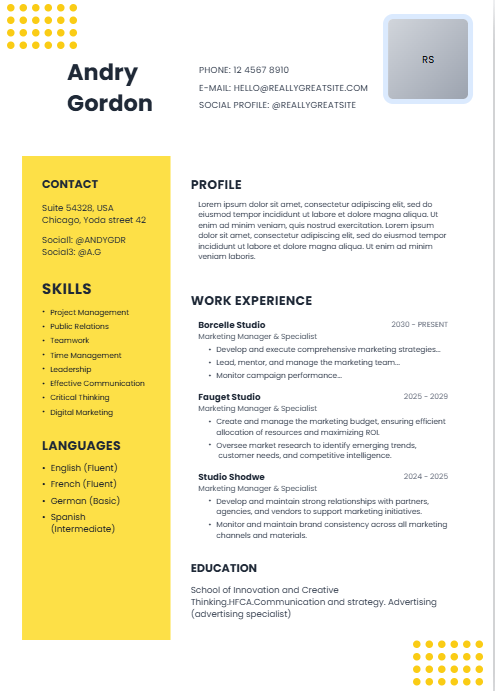
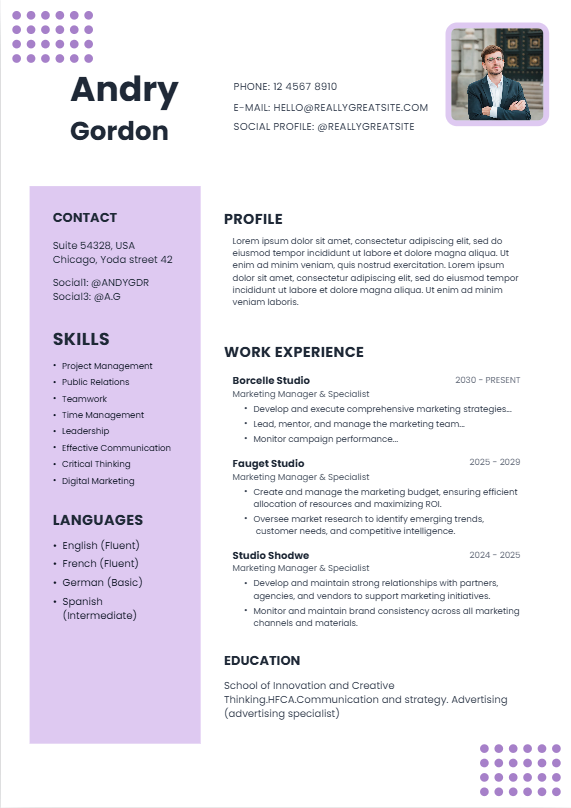
template change

diff --git a/components/templates/Template12.jsx b/components/templates/Template12.jsx
@@ -215,23 +215,23 @@ const handleAIGenerate = async (section, keywords) => {
           {/* Decorative Dots - Top Left */}
           <div className="absolute top-4 left-4 grid grid-cols-6 gap-2">
             {[...Array(24)].map((_, i) => (
-              <div key={i} className="w-3 h-3 bg-yellow-400 rounded-full"></div>
+              <div key={i} className="w-3 h-3 bg-[#a680c9] rounded-full"></div>
             ))}
           </div>
 
           {/* Decorative Dots - Bottom Right */}
           <div className="absolute bottom-4 right-4 grid grid-cols-6 gap-2">
             {[...Array(24)].map((_, i) => (
-              <div key={i} className="w-3 h-3 bg-yellow-400 rounded-full"></div>
+              <div key={i} className="w-3 h-3 bg-[#a680c9] rounded-full"></div>
             ))}
           </div>
 
           {/* Header Section */}
           <div className="grid grid-cols-3 gap-5">
             {/* Left - Yellow Section with Name */}
-            <div className="col-span-1 pt-20 pl-28 flex items-center">
+            <div className="col-span-1 pt-20 pl-24 flex items-center">
               <div>
-                <h1 className="text-4xl font-bold text-gray-800 leading-tight" contentEditable suppressContentEditableWarning>Andry</h1>
+                <h1 className="text-5xl font-bold text-gray-800 leading-tight" contentEditable suppressContentEditableWarning>Andry</h1>
                 <h1 className="text-4xl font-bold text-gray-800 leading-tight" contentEditable suppressContentEditableWarning>Gordon</h1>
               </div>
             </div>
@@ -261,7 +261,7 @@ const handleAIGenerate = async (section, keywords) => {
 
               {/* Profile Photo */}
               <div className="relative">
-                <div className="w-36 h-36 rounded-2xl  border-8 border-blue-100 bg-gray-300 overflow-hidden"
+                <div className="w-36 h-36 rounded-2xl  border-8 border-[#dec9f1] bg-gray-300 overflow-hidden"
                   onClick={() => document.getElementById('profileImageInput').click()}>
                   {profileImage ? (
                     <img src={profileImage} alt="Profile" className="w-full h-full object-cover" />
@@ -285,7 +285,7 @@ const handleAIGenerate = async (section, keywords) => {
           {/* Main Content */}
           <div className="grid grid-cols-3 gap-0 p-10">
             {/* Left Sidebar - Yellow */}
-            <div className="col-span-1 bg-yellow-300 p-8 space-y-8">
+            <div className="col-span-1 bg-[#dec9f1] p-8 space-y-8">
               {/* Contact */}
               <div>
                 <h3 className="text-lg font-bold text-gray-800 mb-4 flex items-center gap-2" contentEditable suppressContentEditableWarning>
